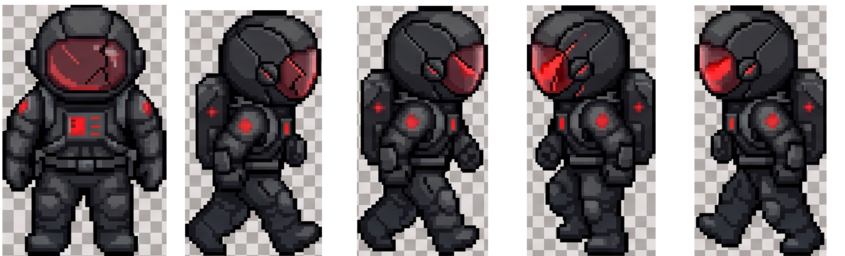
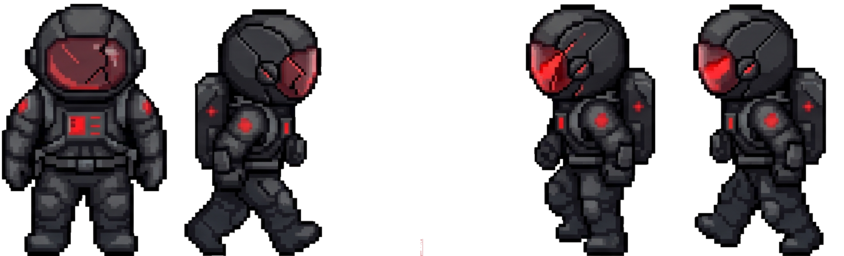
Fix détourage skins : vrai fond transparent (floodfill direct, sans eval)
Claude-Session: https://claude.ai/code/session_01SynKVKwBCYUAL3wXYteGyp

diff --git a/index.html b/index.html
@@ -7,7 +7,7 @@
   <meta name="apple-mobile-web-app-status-bar-style" content="black-translucent">
   <meta name="theme-color" content="#070810">
   <title>Le Vaisseau</title>
-  <link rel="stylesheet" href="style.css?v=19">
+  <link rel="stylesheet" href="style.css?v=20">
   <link rel="manifest" href="manifest.json">
 </head>
 <body>
@@ -83,19 +83,19 @@
   </div>
 </div>
 
-<script src="js/constants.js?v=19"></script>
-<script src="js/state.js?v=19"></script>
-<script src="js/assets.js?v=19"></script>
-<script src="js/audio.js?v=19"></script>
-<script src="js/fx.js?v=19"></script>
-<script src="js/input.js?v=19"></script>
-<script src="js/physics.js?v=19"></script>
-<script src="js/minigames.js?v=19"></script>
-<script src="js/network.js?v=19"></script>
-<script src="js/render.js?v=19"></script>
-<script src="js/hud.js?v=19"></script>
-<script src="js/game.js?v=19"></script>
-<script src="js/main.js?v=19"></script>
-<script src="js/touch.js?v=19"></script>
+<script src="js/constants.js?v=20"></script>
+<script src="js/state.js?v=20"></script>
+<script src="js/assets.js?v=20"></script>
+<script src="js/audio.js?v=20"></script>
+<script src="js/fx.js?v=20"></script>
+<script src="js/input.js?v=20"></script>
+<script src="js/physics.js?v=20"></script>
+<script src="js/minigames.js?v=20"></script>
+<script src="js/network.js?v=20"></script>
+<script src="js/render.js?v=20"></script>
+<script src="js/hud.js?v=20"></script>
+<script src="js/game.js?v=20"></script>
+<script src="js/main.js?v=20"></script>
+<script src="js/touch.js?v=20"></script>
 </body>
 </html>

diff --git a/js/constants.js b/js/constants.js
@@ -2,7 +2,7 @@
 //  CONSTANTES — refonte v13 : map asymétrique, armes, gadgets,
 //  vents (imposteur) / téléporteurs (innocent), manches.
 // ============================================================
-const VERSION='v19';
+const VERSION='v20';
 const VIEW_W=760, VIEW_H=560;
 const WORLD_W=1700, WORLD_H=1250;
 const PLAYER_R=15, SPEED=3.0;